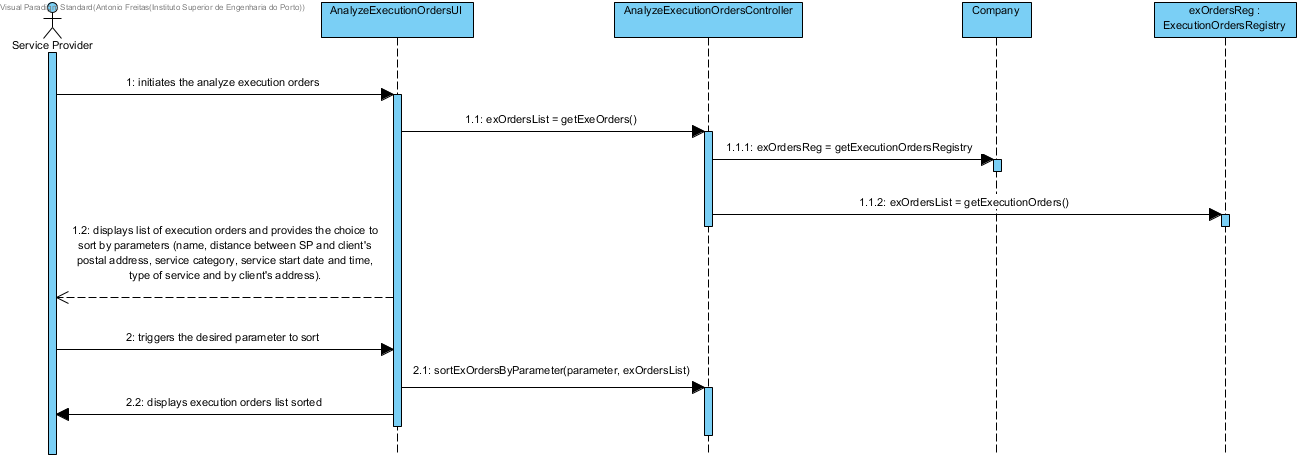
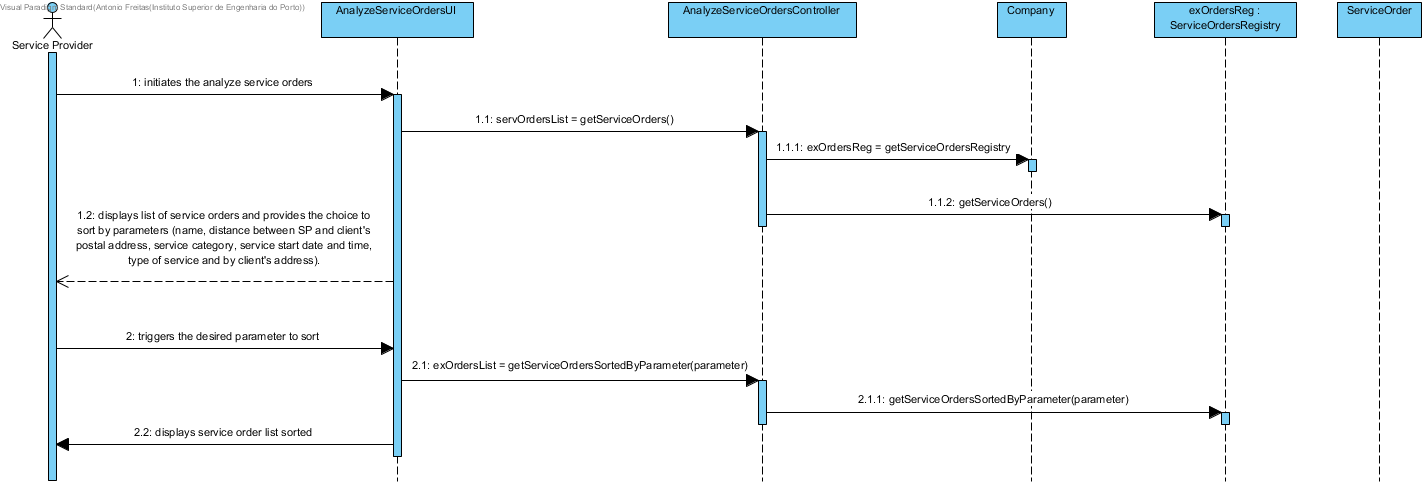
[UC17] [Documentation] - finished the Design with fix excecution term by Service. Completed design racional, SD and CD.

diff --git a/Design/UC17_AnalyzeExecutionOrders.md b/Design/UC17_AnalyzeExecutionOrders.md
@@ -4,25 +4,26 @@
 
 | Flow Main                                                                                        | Question: Which class...                                      | Answer                                       | Justification                                                                                                         |
 |:-------------------------------------------------------------------------------------------------------|:------------------------------------------------------------|:-----------------------------------------------|:---------------------------------------------------------------------------------------------------------------------|
-|1. The Service Provider initiates the analyze execution orders.|... interacts with the user?|AnalyzeExecutionOrdersUI|Pure Fabrication|
-||...coordinates the UC?|AnalyzeExecutionOrdersController|Controller|
-||...knows the ExecutionOrdersRegistry?|Company|IE|
-||...knows the Execution Orders?|ExecutionOrdersRegistry|HC + LC|
+|1. The Service Provider initiates the analyze service orders.|... interacts with the user?|AnalyzeServiceOrdersUI|Pure Fabrication|
+||...coordinates the UC?|AnalyzeServiceOrdersController|Controller|
+||...knows the ServiceOrdersRegistry?|Company|IE|
+||...knows the Service Order?|ServiceOrdersRegistry|HC + LC|
 |2. The systems displays every execution orders and provides the choice to sort the list by the parameters available on execution orders (name, distance between SP and client's postal address, service category, service start date and time, type of service and by client's address).||||
-|3. The service provider triggers the desired parameter to sort.||||
-|4. The systems sorts the execution orders list by the selected parameter and displays it.||||
+|3. The service provider triggers the desired parameter to sort.|...sorts the list of ServiceOrders?|ServiceOrderRegistry|HC + LC|
+||...compares service orders for sorting?|ServiceOrder|IE|
+|4. The displays the Servicer Orders sorted.||||
 
 ## Systematization ##
 
 From the rationale results that the following conceptual classes are promoted to software classes are:
 
-
-
-
+* Company
+* Service Order
 
 Other software classes (i.e. Pure Fabrication) identified:  
-
-
+* AnalyzeServiceOrdersUI
+* AnalyzeServiceOrdersController
+* ServiceOrdersRegistry
 
 
 ##	Detail Diagram
@@ -30,8 +31,6 @@ Other software classes (i.e. Pure Fabrication) identified:
 ![SD_UC17_IT4.png](SD_UC17_IT4.png)
 
 
-
 ##	Class Diagram
-- Como permitir escolha de parametros? por Lista de parametros - registo parametros?
-- Lista de Ordens de Execução a mostrar e 'manipular' será por composição?
-- Qual classe responsavel por aplicar sort?
+
+![SD_UC17_IT4.png](SD_UC17_IT4.png)
